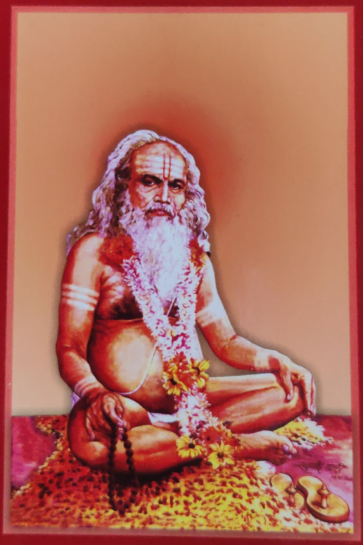
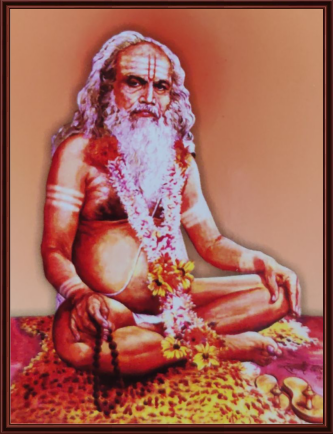
Optimixed Images,Text Minor changes

diff --git a/samudayikupasana.html b/samudayikupasana.html
@@ -184,130 +184,130 @@ window.dataLayer = window.dataLayer || [];
 			
 		<nav class="menu-grid">
 			<a href="https://anvaybk.github.io/sanchareshwar/pages/supasana1.html" class="menu-item">  
-				<img src="images/SM-Samudayik-Upasana-Icon.png" alt="Samudayik Upasana 1"> 
+				<img src="images/SM-Samudayik-Upasana-Icon.webp" alt="Samudayik Upasana 1"> 
 				<span> सद्गुरूरायाची भूपाळी </span>
 			</a>
 			
 			<a href="https://anvaybk.github.io/sanchareshwar/pages/supasana2.html" class="menu-item">  
-				<img src="images/SM-Samudayik-Upasana-Icon.png" alt="Samudayik Upasana 2"> 
+				<img src="images/SM-Samudayik-Upasana-Icon.webp" alt="Samudayik Upasana 2"> 
 				<span>पाचलेगावकर महाराज परिचय </span>
 			</a>
 			
 			<a href="https://anvaybk.github.io/sanchareshwar/pages/supasana3.html" class="menu-item">  
-				<img src="images/SM-Samudayik-Upasana-Icon.png" alt="Samudayik Upasana 3"> 
+				<img src="images/SM-Samudayik-Upasana-Icon.webp" alt="Samudayik Upasana 3"> 
 				<span>सामुदायिक उपासना प्रारंभ</span>
 			</a>
 			
 			<a href="https://anvaybk.github.io/sanchareshwar/pages/supasana4.html" class="menu-item">  
-				<img src="images/SM-Samudayik-Upasana-Icon.png" alt="Samudayik Upasana 4 "> 
+				<img src="images/SM-Samudayik-Upasana-Icon.webp" alt="Samudayik Upasana 4 "> 
 				<span>श्री सद्गुरूंची आरती</span>
 			</a>
 			
 			<a href="https://anvaybk.github.io/sanchareshwar/pages/supasana5.html" class="menu-item">  
-				<img src="images/SM-Samudayik-Upasana-Icon.png" alt="Samudayik Upasana 5 "> 
+				<img src="images/SM-Samudayik-Upasana-Icon.webp" alt="Samudayik Upasana 5 "> 
 				<span>मंत्रपुष्पांजली</span>
 			</a>
 			
 			<a href="https://anvaybk.github.io/sanchareshwar/pages/supasana6.html" class="menu-item">  
-				<img src="images/SM-Samudayik-Upasana-Icon.png" alt="Samudayik Upasana 6"> 
+				<img src="images/SM-Samudayik-Upasana-Icon.webp" alt="Samudayik Upasana 6"> 
 				<span>अथ ध्यानम - जयजयकार</span>
 			</a>
 			
 			<a href="https://anvaybk.github.io/sanchareshwar/pages/supasana7.html" class="menu-item">  
-				<img src="images/SM-Samudayik-Upasana-Icon.png" alt="Samudayik Upasana 7"> 
+				<img src="images/SM-Samudayik-Upasana-Icon.webp" alt="Samudayik Upasana 7"> 
 				<span>भूतशुद्धी</span>
 			</a>
 			
 			<a href="https://anvaybk.github.io/sanchareshwar/pages/supasana8.html" class="menu-item">  
-				<img src="images/SM-Samudayik-Upasana-Icon.png" alt="Samudayik Upasana 8"> 
+				<img src="images/SM-Samudayik-Upasana-Icon.webp" alt="Samudayik Upasana 8"> 
 				<span>उपासना</span>
 			</a>
 	
 			<a href="https://anvaybk.github.io/sanchareshwar/pages/supasana9.html" class="menu-item">  
-				<img src="images/SM-Samudayik-Upasana-Icon.png" alt="Samudayik Upasana 9"> 
+				<img src="images/SM-Samudayik-Upasana-Icon.webp" alt="Samudayik Upasana 9"> 
 				<span>अवधूत चिंतन श्री गुरुदेव दत्त</span>
 			</a>
 
 			<a href="https://anvaybk.github.io/sanchareshwar/pages/supasana10.html" class="menu-item">  
-				<img src="images/SM-Samudayik-Upasana-Icon.png" alt="Samudayik Upasana 10"> 
+				<img src="images/SM-Samudayik-Upasana-Icon.webp" alt="Samudayik Upasana 10"> 
 				<span>श्रीगुरुपादुकाष्टक</span>
 			</a>
 
 			<a href="https://anvaybk.github.io/sanchareshwar/pages/supasana11.html" class="menu-item">  
-				<img src="images/SM-Samudayik-Upasana-Icon.png" alt="Samudayik Upasana 11"> 
+				<img src="images/SM-Samudayik-Upasana-Icon.webp" alt="Samudayik Upasana 11"> 
 				<span>पाचलेगावकर महाराज आरती</span>
 			</a>
 
 			<a href="https://anvaybk.github.io/sanchareshwar/pages/supasana12.html" class="menu-item">  
-				<img src="images/SM-Samudayik-Upasana-Icon.png" alt="Samudayik Upasana 12"> 
+				<img src="images/SM-Samudayik-Upasana-Icon.webp" alt="Samudayik Upasana 12"> 
 				<span>पसायदान</span>
 			</a>
 			
 			<a href="https://anvaybk.github.io/sanchareshwar/pages/supasana13.html" class="menu-item">  
-				<img src="images/SM-Samudayik-Upasana-Icon.png" alt="Samudayik Upasana 13"> 
+				<img src="images/SM-Samudayik-Upasana-Icon.webp" alt="Samudayik Upasana 13"> 
 				<span>करुणात्रिपदी पद 1</span>
 			</a>
 			
 			<a href="https://anvaybk.github.io/sanchareshwar/pages/supasana14.html" class="menu-item">  
-				<img src="images/SM-Samudayik-Upasana-Icon.png" alt="Samudayik Upasana 14"> 
+				<img src="images/SM-Samudayik-Upasana-Icon.webp" alt="Samudayik Upasana 14"> 
 				<span>करुणात्रिपदी पद 2 </span>
 			</a>
 		
 			<a href="https://anvaybk.github.io/sanchareshwar/pages/supasana15.html" class="menu-item">  
-				<img src="images/SM-Samudayik-Upasana-Icon.png" alt="Samudayik Upasana 15"> 
+				<img src="images/SM-Samudayik-Upasana-Icon.webp" alt="Samudayik Upasana 15"> 
 				<span>करुणात्रिपदी पद 3</span>
 			</a>
 
 			<a href="https://anvaybk.github.io/sanchareshwar/pages/supasana16.html" class="menu-item">  
-				<img src="images/SM-Samudayik-Upasana-Icon.png" alt="Samudayik Upasana 16"> 
+				<img src="images/SM-Samudayik-Upasana-Icon.webp" alt="Samudayik Upasana 16"> 
 				<span>करुणात्रिपदी पद 4 </span>
 			</a>
 		
 			<a href="https://anvaybk.github.io/sanchareshwar/pages/supasana17.html" class="menu-item">  
-				<img src="images/SM-Samudayik-Upasana-Icon.png" alt="Samudayik Upasana 17"> 
+				<img src="images/SM-Samudayik-Upasana-Icon.webp" alt="Samudayik Upasana 17"> 
 				<span> करुणात्रिपदी पद 5 </span>
 			</a>
 
 			<a href="https://anvaybk.github.io/sanchareshwar/pages/supasana18.html" class="menu-item">  
-				<img src="images/SM-Samudayik-Upasana-Icon.png" alt="Samudayik Upasana 18"> 
+				<img src="images/SM-Samudayik-Upasana-Icon.webp" alt="Samudayik Upasana 18"> 
 				<span> श्रीसूक्तम्  </span>
 			</a>
 			<a href="https://anvaybk.github.io/sanchareshwar/pages/supasana19.html" class="menu-item">  
-				<img src="images/SM-Samudayik-Upasana-Icon.png" alt="Samudayik Upasana 19"> 
+				<img src="images/SM-Samudayik-Upasana-Icon.webp" alt="Samudayik Upasana 19"> 
 				<span> नारायणसूक्तम् </span>
 			</a>
 		
 			<a href="https://anvaybk.github.io/sanchareshwar/pages/supasana20.html" class="menu-item">  
-				<img src="images/SM-Samudayik-Upasana-Icon.png" alt="Samudayik Upasana 20"> 
+				<img src="images/SM-Samudayik-Upasana-Icon.webp" alt="Samudayik Upasana 20"> 
 				<span>शकुनसूक्तम्  </span>
 			</a>
 		
 			<a href="https://anvaybk.github.io/sanchareshwar/pages/supasana21.html" class="menu-item">  
-				<img src="images/SM-Samudayik-Upasana-Icon.png" alt="Samudayik Upasana 21"> 
+				<img src="images/SM-Samudayik-Upasana-Icon.webp" alt="Samudayik Upasana 21"> 
 				<span>मेधासूक्तम्</span>
 			</a>
 		
 			<a href="https://anvaybk.github.io/sanchareshwar/pages/supasana22.html" class="menu-item">  
-				<img src="images/SM-Samudayik-Upasana-Icon.png" alt="Samudayik Upasana 22"> 
+				<img src="images/SM-Samudayik-Upasana-Icon.webp" alt="Samudayik Upasana 22"> 
 				<span> पुरुषसूक्त </span>
 			</a>
 			<a href="https://anvaybk.github.io/sanchareshwar/pages/supasana23.html" class="menu-item">  
-				<img src="images/SM-Samudayik-Upasana-Icon.png" alt="Samudayik Upasana 23"> 
+				<img src="images/SM-Samudayik-Upasana-Icon.webp" alt="Samudayik Upasana 23"> 
 				<span> श्री मुक्तेश्वर माऊलीची आरती </span>
 			</a>
 
 			<a href="https://anvaybk.github.io/sanchareshwar/pages/supasana24.html" class="menu-item">  
-				<img src="images/SM-Samudayik-Upasana-Icon.png" alt="Samudayik Upasana 24"> 
+				<img src="images/SM-Samudayik-Upasana-Icon.webp" alt="Samudayik Upasana 24"> 
 				<span>श्री निर्गुण पादुका आरती </span>
 			</a>
 
 			<a href="https://anvaybk.github.io/sanchareshwar/pages/supasana25.html" class="menu-item">  
-				<img src="images/SM-Samudayik-Upasana-Icon.png" alt="Samudayik Upasana 25"> 
+				<img src="images/SM-Samudayik-Upasana-Icon.webp" alt="Samudayik Upasana 25"> 
 				<span> संचारेश्वर बावनी </span>
 			</a>
 
 			<a href="https://anvaybk.github.io/sanchareshwar/pages/supasana26.html" class="menu-item">  
-				<img src="images/SM-Samudayik-Upasana-Icon.png" alt="Samudayik Upasana 26"> 
+				<img src="images/SM-Samudayik-Upasana-Icon.webp" alt="Samudayik Upasana 26"> 
 				<span>  घोरकष्टोद्धरण स्तोत्र </span>
 			</a>
 

diff --git a/pages/supasana11.html b/pages/supasana11.html
@@ -50,7 +50,7 @@
   </head>
 <body>
       <div class="container-heading" oncontextmenu="return false;">
-         <h1> ।। पाचलेगावकर महाराज आरती ।। </h1>
+         <h1> ।। महाराजांची आरती ।। </h1>
          <div class="chapter-content" oncontextmenu="return false;">
             <!-- <div> <p>
                <tr>
@@ -70,7 +70,7 @@
 			<p style="color:black"> राष्ट्रोन्नतीस तळमळतो । जीवोद्धारकार्थी भ्रमतो । सदा सुविचारी सुविरततो । सद्गुरू प्रेमसरित शुभ तो । धर्मभास्कर ज्या जनी वदती। धर्मभास्कर ज्या जनी वदती । बुद्धि सुविशाल, स्मरण बहुसाल, कृष्णेचा लाल । राजाराम सुपुत्रांची । निरंजन सुखद श्रीगुरूची <br> ।।२।। </p>
 			<p>बृहन्भारती असे ख्याती । अखंडित राम वसे चित्ती । बाल शिशु ब्रह्मचारी मूर्ती । सदाशिव सांब गुरुमूर्ती । फणिवर बाळगी निजसंगे । फणिवर बाळगी निजसंगे । भानामति धुंदी, वृत्ति स्वच्छंदी, भूतसंबंधी । निवारी पीडा त्रस्तांची । आर्तजनदर्शनोत्सुकांची <br> ।।३।।</p>
 			<p style="color:black"> भाळि केशरी गंध साजे । सिंदुर तिलक भृकुटि विलसे । दंड करि भस्म अंगि शोभे । खडावा पायि दिव्य साजे । अत्रिसुत दत्त मनी भासे । अत्रिसुत दत्त मनी भासे । जटा अलिवर्ण, करी पीतवर्ण, कमंडलु कर्ण । मनीषा पुरवी दासांची, गोविंदात्मज हृदयाची <br> ।।४।।</p>
-			<p> - अवधूतचिंतन श्री गुरुदेव दत्त - </p>
+			<p> अवधूतचिंतन श्री गुरुदेव दत्त </p>
 			
 			<p> 卐 卐 卐 卐 卐 <br> </p>
          </div>

diff --git a/serviceworker.js b/serviceworker.js
@@ -1,6 +1,6 @@
-// Last updated on 26062025
+// Last updated on 01072025
 
-const CACHE_NAME = 'sanchareshwar-v1.0.0.2';
+const CACHE_NAME = 'sanchareshwar-v1.0.0.3';
 
 // Dynamically determine the base path (e.g., "/sanchareshwar")
 const BASE_PATH = self.location.pathname.replace(/\/serviceworker\.js$/, '');
@@ -26,6 +26,7 @@ const RESOURCE_PATHS = [
 		"/panchapadi.html",
 		"/ashtotarnamavali.html",
 		"/sanchareshwargeeta.html",
+		"/samudayikupasana.html",
 		"/pages/chapterprastavana.html",
 		"/pages/chapter0.html",
 		"/pages/chapter1.html",
@@ -105,6 +106,33 @@ const RESOURCE_PATHS = [
 		"/pages/sgeeta16.html",	
 		"/pages/sgeeta17.html",	
 		"/pages/sgeeta18.html",	
+		"/pages/supasana1.html",
+		"/pages/supasana2.html",
+		"/pages/supasana3.html",
+		"/pages/supasana4.html",
+		"/pages/supasana5.html",
+		"/pages/supasana6.html",
+		"/pages/supasana7.html",
+		"/pages/supasana8.html",
+		"/pages/supasana9.html",
+		"/pages/supasana10.html",
+		"/pages/supasana11.html",
+		"/pages/supasana12.html",
+		"/pages/supasana13.html",
+		"/pages/supasana14.html",
+		"/pages/supasana15.html",
+		"/pages/supasana16.html",
+		"/pages/supasana17.html",
+		"/pages/supasana18.html",
+		"/pages/supasana19.html",
+		"/pages/supasana20.html",
+		"/pages/supasana21.html",
+		"/pages/supasana22.html",
+		"/pages/supasana23.html",
+		"/pages/supasana24.html",
+		"/pages/supasana25.html",
+		"/pages/supasana26.html",
+		"/pages/supasana27.html",
 		"/images/SM-Granth-Vachan-Icon-60x60.webp",
 		"/images/SM-Panchapadi-60x60.webp",
 		"/images/SM-Bavani-60x60.webp",
@@ -116,6 +144,8 @@ const RESOURCE_PATHS = [
         "/images/Audio-Gallery-Icon-60x60.webp",
         "/images/Photo-Gallery-Icon-60x60.webp",
 		"/images/ContactUs-Icon-60x60.webp",
+		"/images/SM-Samudayik-Upasana-Icon.webp",
+		"/images/SM-Sanchareshwar-atmashatak-Icon.webp",
 		"/images/SM_Sanchareshwar_Maharaj_Panchapadi-60x60.png",
 		"/images/YTube-Icon-40x40.webp",
         "/images/Instagram-Icon-40x40.png",

diff --git a/pages/supasana6.html b/pages/supasana6.html
@@ -92,7 +92,7 @@
 			<p style="color:red"> जयजयकार </p>
 			श्री मुक्तेश्वर महाराज की जय । <br>  छत्रपती शिवाजी महाराज की जय । <br> महाराणा प्रतापसिंह की जय । <br> गुरू गोविंदसिंह की जय । <br>  सब सब संतन की जय । <br>  जय जय रघुवीर समर्थ । <br>  समर्थ रामदास स्वामी महाराज की जय । <br>  बजरंगबली बल भीम की जय । <br> श्रीपाद श्रीवल्लभ स्वामी महाराज की जय।  श्री नृसिंहसरस्वती स्वामी महाराज की जय । श्री वासुदेवानंदसरस्वती स्वामी महाराज की जय ।  श्री नारायण दत्तानंद स्वामी महाराज की जय । श्री माधवाश्रम स्वामी महाराज की जय । श्री सद्गुरू संचारेश्वर महाराज की जय । </p>
 			<p style="color:brown"> अनंतकोटी ब्रह्मांडनायक राजाधिराज महायोगिराज राष्ट्रसंत धर्मभास्कर सद्गुरू श्री संचारेश्वर महाराज की जय । </p>
-			<p style="color:brown"> - अवधूतचिंतन श्री गुरुदेव दत्त - </p>
+			<p style="color:brown"> अवधूतचिंतन श्री गुरुदेव दत्त </p>
 			
 			<p> 卐 卐 卐 卐 卐 <br> </p>
          </div>

diff --git a/pages/supasana9.html b/pages/supasana9.html
@@ -50,7 +50,7 @@
   </head>
 <body>
       <div class="container-heading" oncontextmenu="return false;">
-         <h1> ।। अवधूतचिंतन श्री गुरुदेव दत्त  ।। </h1>
+         <h1> अवधूतचिंतन श्री गुरुदेव दत्त </h1>
          <div class="chapter-content" oncontextmenu="return false;">
             <!-- <div> <p>
                <tr>
@@ -85,7 +85,7 @@
 			<p> ॐ नमो त्रयमूर्तये रुद्राय त्रैलोक्याधिपतये जितेन्द्रियाय सनातनाय नमोऽस्तु ते ।।  
 			<p style="color:brown"> - ॐ नमो महासिद्धाय स्वाहा - </p>
 			<p> (ह्या मंत्राचा जप बारा वेळा वैखरीने व बारा वेळा पश्यंतीने करावा.) </p>
-			<p> - अवधूतचिंतन श्री गुरुदेव दत्त  - </p>
+			<p> अवधूतचिंतन श्री गुरुदेव दत्त  </p>
 			
 			<p> 卐 卐 卐 卐 卐 <br> </p>
          </div>

diff --git a/pages/supasana5.html b/pages/supasana5.html
@@ -85,7 +85,7 @@
 			<p style="color:brown"> ॐ पूर्णब्रह्माय विद्महे । सच्चिदानन्दाय धीमहि । तन्नो सद्गुरू : प्रचोदयात् ।  <br> ।।१७।। </p>
 			<p>ॐ मुक्तेश्वराय विद्महे । मुक्तिनाथाय धीमहि । तन्नो मुक्तेश्वरः प्रचोदयात् ।  <br> ।।१८।। </p>
 			<p style="color:brown"> ॐ नारसिंहाय विद्महे । संचारेश्वराय धीमहि । तन्नो संचारेश्वरः प्रचोदयात् ।  <br> ।।१९।। </p>
-			<p style="color:red">  - मंत्रपुष्पाञ्जलीं समर्पयामि - </p>
+			<p style="color:red">  मंत्रपुष्पाञ्जलीं समर्पयामि  </p>
 			
 			
 			<p> 卐 卐 卐 卐 卐 <br> </p>

diff --git a/pages/supasana24.html b/pages/supasana24.html
@@ -56,7 +56,7 @@
   </head>
 <body>
       <div class="container-heading" oncontextmenu="return false;">
-         <h1> । श्री निर्गुण पादुकांची आरती ।</h1>
+         <h1> पादुकांची आरती </h1>
          <div class="chapter-content" oncontextmenu="return false;">
             <!-- <div> <p>
                <tr>
@@ -67,7 +67,7 @@
                </tr>  
                </div> -->
 			   
-            <!-- <p style="color:red">श्री निर्गुण पादुकांची आरती</p> -->
+            <p style="color:red">श्री निर्गुण पादुकांची आरती</p>
             <!--  <p style="color:red"> श्री सद्गुरूंची आरती -</p>
             <p style="color:blue"> ।। अथ प्रथमोऽध्यायः ।।</p> -->
 			 

diff --git a/home.html b/home.html
@@ -215,7 +215,7 @@
                </a>
 		   
 			  <a href="https://anvaybk.github.io/sanchareshwar/samudayikupasana.html" class="menu-item">  
-				<img src="images/SM-Samudayik-Upasana-Icon.png" alt="Sanchareshwar Samudayik Upasana">
+				<img src="images/SM-Samudayik-Upasana-Icon.webp" alt="Sanchareshwar Samudayik Upasana">
 				<span> सामुदायिक नित्य उपासना </span> 
 			  </a>   
 			
@@ -296,7 +296,7 @@
                      <img src="images/google-play.png" alt="sanchareshwar Android App"></a> 	 </p>  -->
                   <!-- Google_play_store.svg -->
                   <br> 
-                  <p>&copy; 2025 - All rights reserved. Version 1.0.0.2 </p>
+                  <p>&copy; 2025 - All rights reserved. Version 1.0.0.3 </p>
                </div>
             </div>
          </footer>

diff --git a/pages/supasana4.html b/pages/supasana4.html
@@ -85,7 +85,7 @@
 			<p> सदावसन्तं हृदयारविन्दे । <br> भवंभवानीसहितं नमामि ।। </p> 
 			<p style="color:brown"> मन्दारमालांकुलितालकायै । <br> कपालमालाङ्कितशंकराय ।। </p> 
 			<p> दिव्याम्बरायै च दिगम्बराय । <br> नमः शिवायै च नमः शिवाय ।। </p> 
-			<p style="color:brown"> - कर्पूरनीरांजनदिपं समर्पयामि - </p> 
+			<p style="color:brown"> कर्पूरनीरांजनदिपं समर्पयामि </p> 
 			
 			
 			<p> 卐 卐 卐 卐 卐 <br> </p>

diff --git a/pages/ashtotarnamavali9.html b/pages/ashtotarnamavali9.html
@@ -95,7 +95,7 @@
 
     </div>
          <div class="btn-group" style="width:100%">
-		<button style="width:33.3%" onclick="goToAshtotarNamavaliPage8()"> ◀◀ </button> 
+		<button style="width:33.3%" onclick="goToBhajanGangaPage07()()"> ◀◀ </button> 
 		<button style="width:33.3%" onclick="goToBhajanGangaHome()"> 🏠 </button>  
 		<button style="width:33.3%" onclick="goToVideoSangrahHome()"> ▶▶ </button>   
 	</div>	
